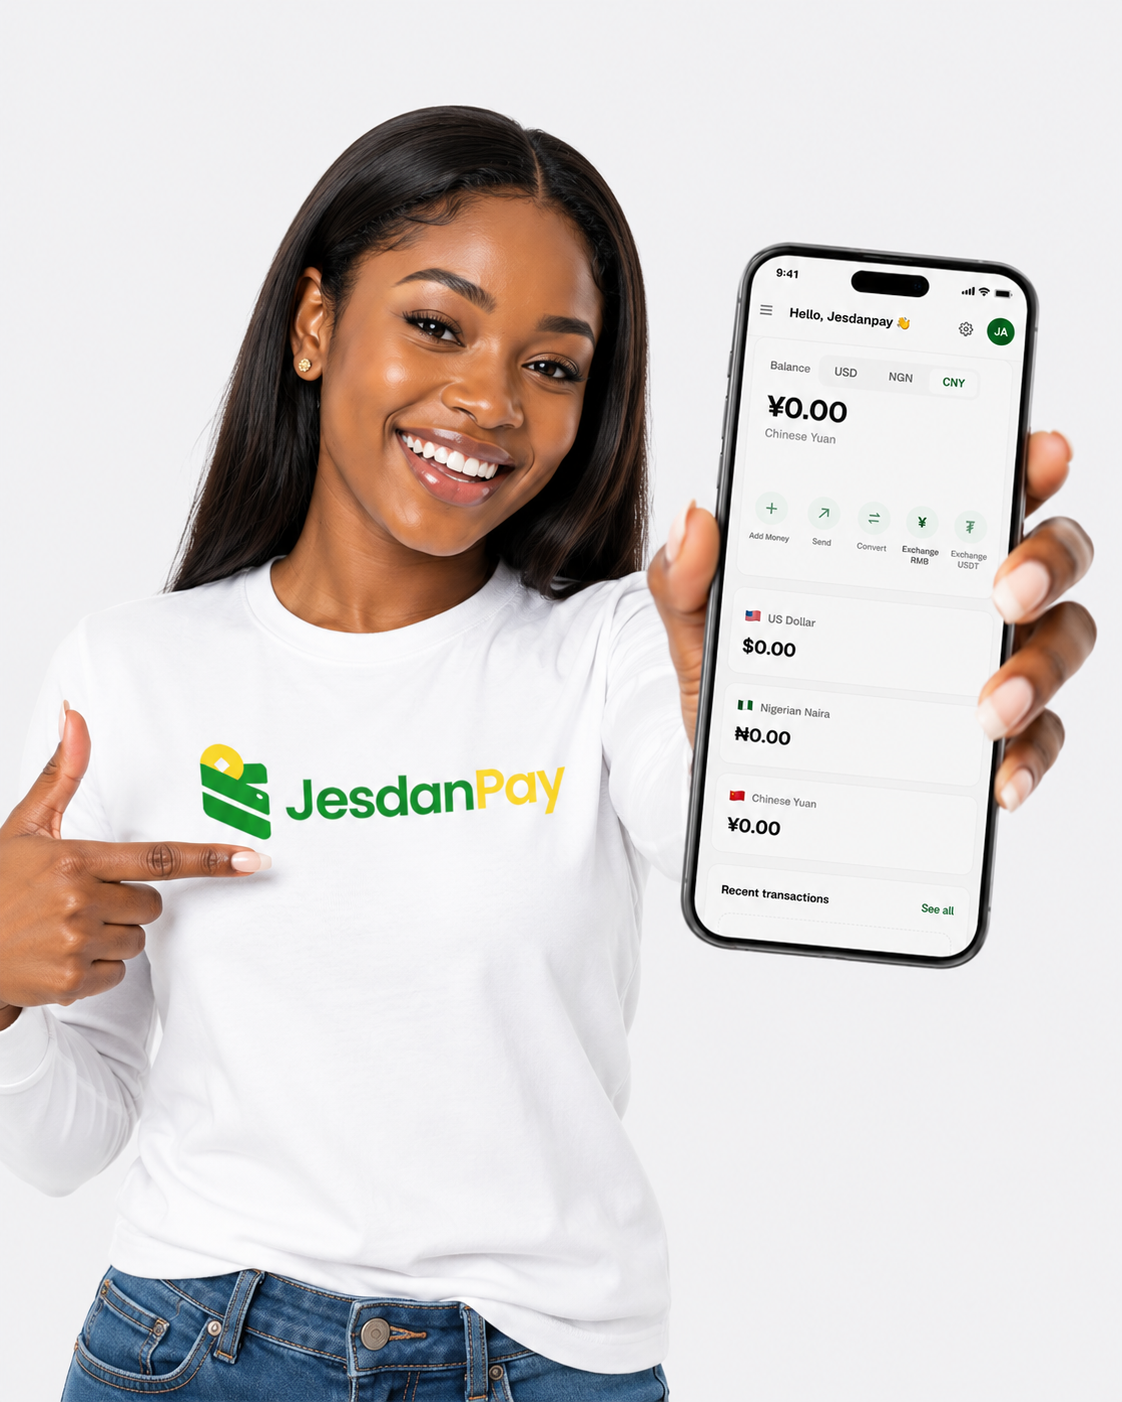
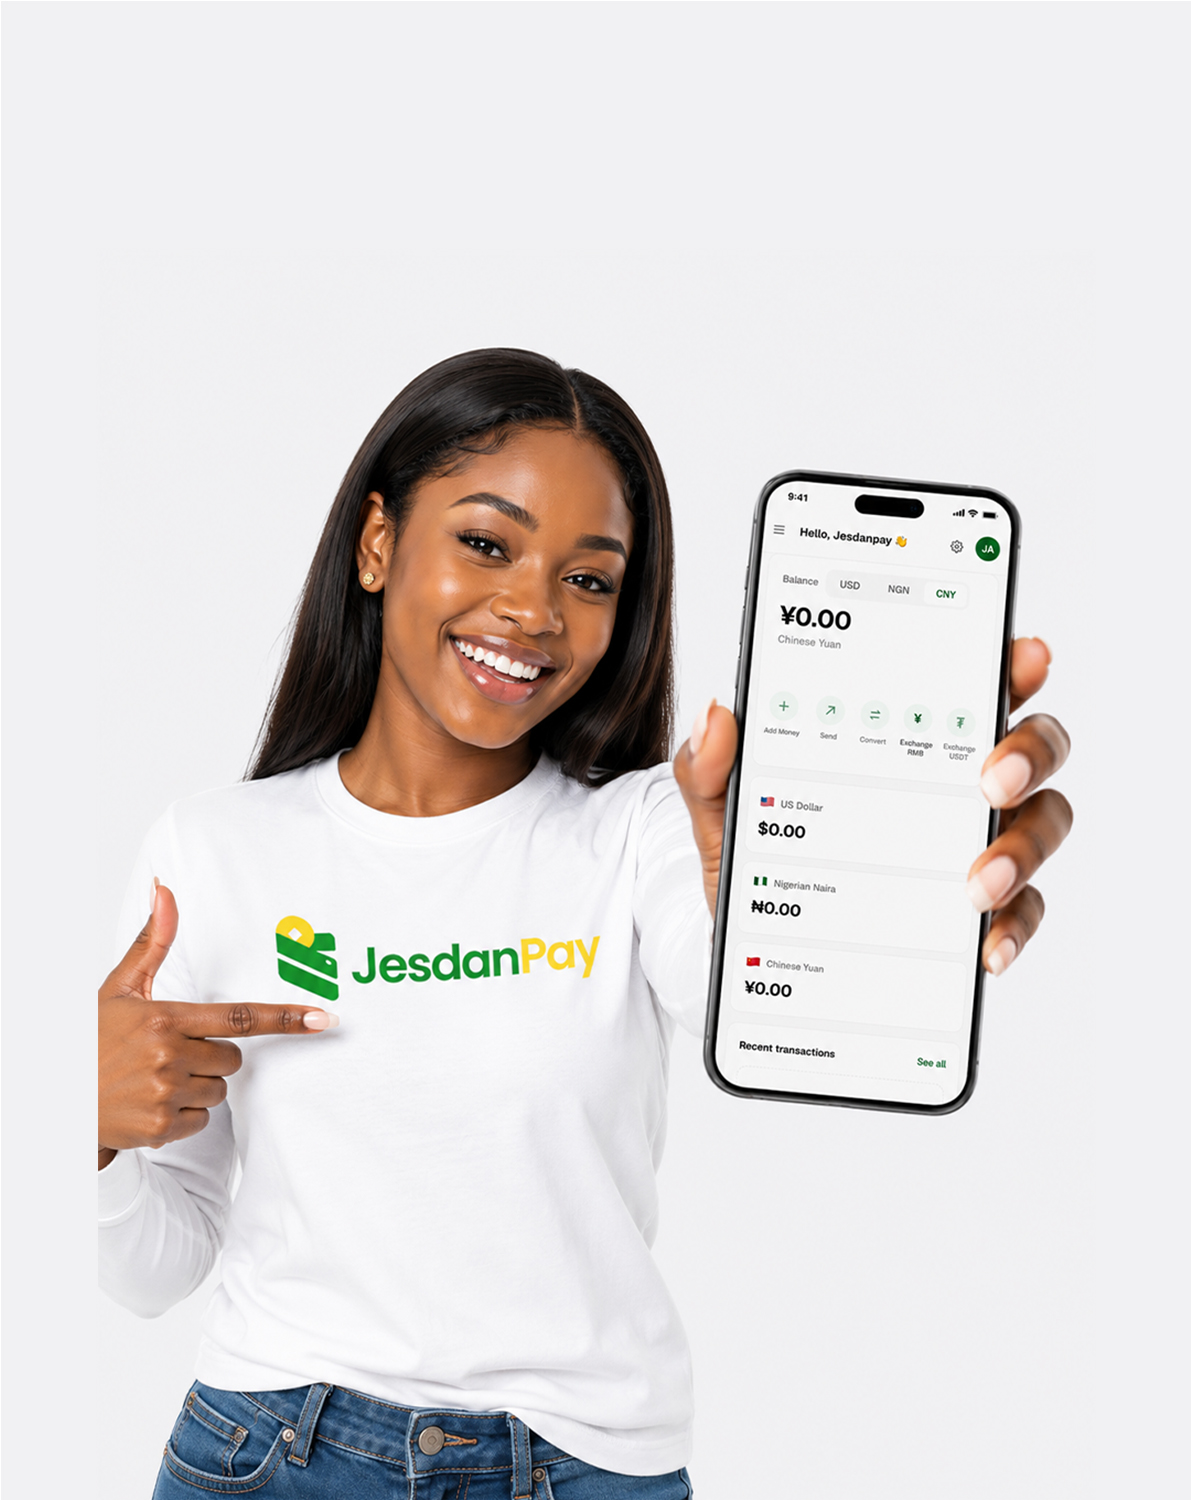
Fix mobile Safari zoom-on-focus and hero image head-cropping
The persistent "app is zoomed in" report was iOS Safari's well-known
auto-zoom: it zooms the whole page when a focused text input's computed
font-size is under 16px, and that zoom level persists across the redirect
after login. All four real inputs (email/password, RMB amount, business
KYC ownership textarea) were using text-sm (14px) on the actual form
control. Bumped them to text-base (16px) on mobile, sm:text-sm (14px)
preserved on desktop where this doesn't apply — confirmed via computed
style that mobile now renders inputs at 16px.

Also updated the two auth hero photos with the client's re-exported
versions (more headroom above the head/shoulders to stop cropping at
smaller desktop heights), updated their dimensions in the two auth pages,
and added object-top so any remaining object-cover crop trims from the
bottom first rather than the head.

diff --git a/src/app/onboarding/kyc/business/page.tsx b/src/app/onboarding/kyc/business/page.tsx
@@ -67,7 +67,7 @@ export default function BusinessKycPage() {
               placeholder="List directors/shareholders and their ownership %"
               value={ownershipStructure}
               onChange={(e) => setOwnershipStructure(e.target.value)}
-              className="rounded-xl border border-border bg-white p-3.5 text-sm outline-none focus:border-primary-400"
+              className="rounded-xl border border-border bg-white p-3.5 text-base outline-none focus:border-primary-400 sm:text-sm"
             />
           </label>
         </div>

diff --git a/src/components/ui/PasswordInput.tsx b/src/components/ui/PasswordInput.tsx
@@ -60,7 +60,7 @@ export function PasswordInput({
           id={inputId}
           type={visible ? "text" : "password"}
           onChange={handleChange}
-          className={`h-11 w-full rounded-xl border border-border bg-white px-3.5 pr-11 text-sm outline-none transition-colors focus:border-primary-400 ${className}`}
+          className={`h-11 w-full rounded-xl border border-border bg-white px-3.5 pr-11 text-base outline-none transition-colors focus:border-primary-400 sm:text-sm ${className}`}
           {...props}
         />
         <button

diff --git a/src/components/payments/RmbExchangeForm.tsx b/src/components/payments/RmbExchangeForm.tsx
@@ -162,7 +162,7 @@ function SourceStep({
             value={state.amount}
             onChange={(e) => onChange({ amount: e.target.value })}
             placeholder="0.00"
-            className="h-11 w-full rounded-xl border border-border bg-white pl-8 pr-3.5 text-sm outline-none transition-colors focus:border-primary-400"
+            className="h-11 w-full rounded-xl border border-border bg-white pl-8 pr-3.5 text-base outline-none transition-colors focus:border-primary-400 sm:text-sm"
           />
         </div>
         {sourceWallet && (

diff --git a/src/components/ui/Input.tsx b/src/components/ui/Input.tsx
@@ -14,7 +14,7 @@ export function Input({ label, id, className = "", ...props }: InputProps) {
       )}
       <input
         id={id}
-        className={`h-11 rounded-xl border border-border bg-white px-3.5 text-sm outline-none transition-colors focus:border-primary-400 ${className}`}
+        className={`h-11 rounded-xl border border-border bg-white px-3.5 text-base outline-none transition-colors focus:border-primary-400 sm:text-sm ${className}`}
         {...props}
       />
     </div>

diff --git a/src/app/(auth)/signup/page.tsx b/src/app/(auth)/signup/page.tsx
@@ -18,8 +18,8 @@ export default function SignupPage() {
     <AuthShell
       imageSrc="/auth-hero-male.png"
       imageAlt="Smiling JesDanPay user holding up the app on their phone"
-      imageWidth={1123}
-      imageHeight={1400}
+      imageWidth={1191}
+      imageHeight={1500}
     >
       <Card className="p-6 sm:p-8">
         <h1 className="mb-1 text-xl font-semibold">Create your account</h1>

diff --git a/src/app/(auth)/login/page.tsx b/src/app/(auth)/login/page.tsx
@@ -18,8 +18,8 @@ export default function LoginPage() {
     <AuthShell
       imageSrc="/auth-hero-female.png"
       imageAlt="Smiling JesDanPay user holding up the app on their phone"
-      imageWidth={1122}
-      imageHeight={1402}
+      imageWidth={1191}
+      imageHeight={1500}
     >
       <Card className="p-6 sm:p-8">
         <h1 className="mb-1 text-xl font-semibold">Welcome back</h1>

diff --git a/src/components/layout/AuthShell.tsx b/src/components/layout/AuthShell.tsx
@@ -33,7 +33,7 @@ export function AuthShell({ imageSrc, imageAlt, imageWidth, imageHeight, childre
               alt={imageAlt}
               width={imageWidth}
               height={imageHeight}
-              className="h-auto max-h-[60vh] w-full object-cover"
+              className="h-auto max-h-[60vh] w-full object-cover object-top"
               priority
             />
           </div>
